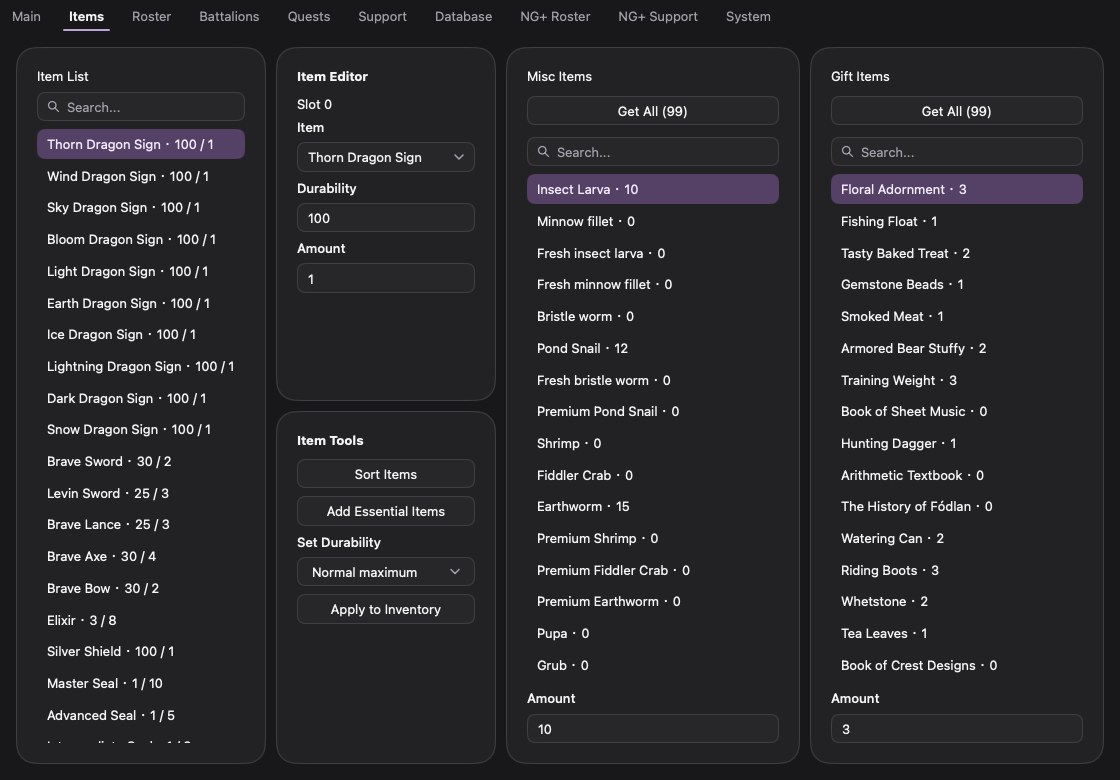
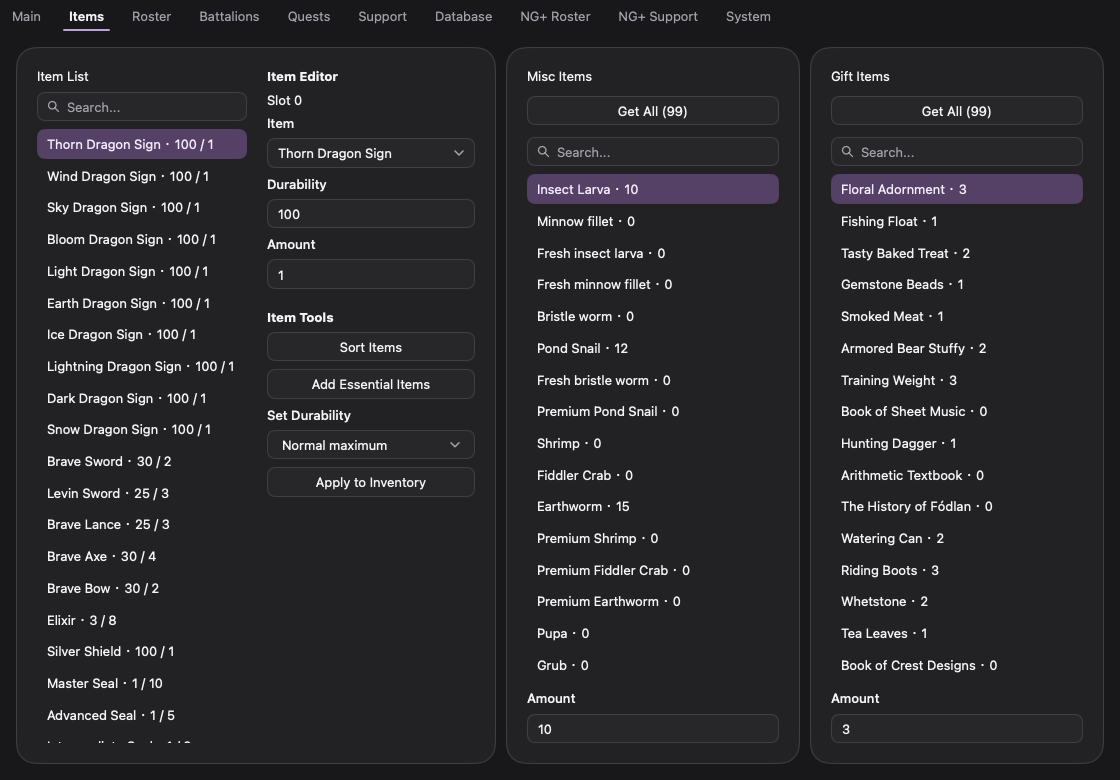
fix(gui): group inventory selection and editing in one card

Changed region(s): [[0.2188, 0.4308, 0.4062, 0.8], [0.2188, 0.0923, 0.375, 0.3385], [0.2188, 0.4, 0.3125, 0.4308]]

diff --git a/internal/app/inventory.go b/internal/app/inventory.go
@@ -21,47 +21,22 @@ func (a *App) itemsPage(c *ui.Context) {
 			p := fmt.Sprintf("Items[%d].", i)
 			rows[i] = row{i, a.DB.Name("items", int(a.number(p+"Id"))), fmt.Sprintf("%d / %d", a.number(p+"Durability"), a.number(p+"Amount"))}
 		}
-		selected := -1
-		a.card(c, a.T("Item List")).Width(listWidth).MinHeight(0).Children(func() { selected = a.selection(c, "items-items", "Item List", rows, nil) })
-		ui.Column(c).Width(editorWidth).MinHeight(0).Children(func() {
-			panel := ui.Column(c.Key(selected)).Fill().Gap(10)
-			if a.Save == nil {
-				selected = 0
-			}
-			if selected < 0 {
-				return
-			}
-			p := fmt.Sprintf("Items[%d].", selected)
-			panel.Children(func() {
-				a.scrollingSection(c, "Item Editor", func() {
-					if a.Save != nil {
-						ui.Textf(c, "%s %d", a.T("Slot"), selected)
-					} else {
-						ui.Text(c, a.T("Slot"))
-					}
-					a.choice(c, "Item", a.DB.Catalog["items"], int(a.number(p+"Id")), func(id int) {
-						ops := []save.Operation{{"op": "set", "path": p + "Id", "value": id}}
-						if id == -1 {
-							ops = append(ops, save.Operation{"op": "set", "path": p + "Durability", "value": 0}, save.Operation{"op": "set", "path": p + "Amount", "value": 0})
-						}
-						a.applyBatch(ops...)
-					})
-					a.input(c, "Durability", p+"Durability", 0, 4294967295)
-					a.input(c, "Amount", p+"Amount", 0, 4294967295)
+		a.card(c, a.T("Item List")).Width(listWidth + editorWidth + 10).MinHeight(0).Children(func() {
+			ui.Row(c).Fill().Gap(editorAppearance.CardPadding).AlignItems(ui.Stretch).Children(func() {
+				selected := -1
+				ui.Column(c).Width(listWidth - 2*editorAppearance.CardPadding).MinHeight(0).Children(func() {
+					selected = a.selection(c, "items-items", "Item List", rows, nil)
 				})
-				a.scrollingSection(c, "Item Tools", func() {
-					if ui.Button(c, a.T("Sort Items")).Clicked() {
-						a.flushInput()
-						a.apply(save.Operation{"op": "sortItems"})
-						a.table("items-items").Selected = 0
-					}
-					a.action(c, "Add Essential Items", save.Operation{"op": "addEssentialItems"})
-					mode := a.tab("durability-mode")
-					a.selectIndex(c, "Set Durability", *mode, []string{"Normal maximum", "100 (infinite)", "Weapons 100, other maximum"}, func(i int) { *mode = i })
-					if ui.Button(c, a.T("Apply to Inventory")).Clicked() {
-						a.flushInput()
-						a.apply(save.Operation{"op": "inventoryDurability", "mode": []string{"normal", "unlimited", "weapons-unlimited"}[*mode]})
-					}
+				ui.Scroll(c).Grow(1).Basis(0).MinWidth(0).MinHeight(0).Children(func() {
+					ui.Column(c).Gap(editorAppearance.CardPadding).Children(func() {
+						if a.Save == nil {
+							selected = 0
+						}
+						if selected >= 0 {
+							a.itemEditor(c, selected)
+						}
+						a.itemTools(c)
+					})
 				})
 			})
 		})
@@ -71,6 +46,45 @@ func (a *App) itemsPage(c *ui.Context) {
 				title = "Gift Items"
 			}
 			a.card(c.Key(kind), a.T(title)).Grow(1).MinHeight(0).Children(func() { a.smallInventory(c, kind) })
+		}
+	})
+}
+
+func (a *App) itemEditor(c *ui.Context, selected int) {
+	p := fmt.Sprintf("Items[%d].", selected)
+	ui.Column(c.Key(selected)).Gap(editorAppearance.ControlGap).Role(ui.RoleGroup).Label(a.T("Item Editor")).Children(func() {
+		ui.Text(c, a.T("Item Editor")).Bold()
+		if a.Save != nil {
+			ui.Textf(c, "%s %d", a.T("Slot"), selected)
+		} else {
+			ui.Text(c, a.T("Slot"))
+		}
+		a.choice(c, "Item", a.DB.Catalog["items"], int(a.number(p+"Id")), func(id int) {
+			ops := []save.Operation{{"op": "set", "path": p + "Id", "value": id}}
+			if id == -1 {
+				ops = append(ops, save.Operation{"op": "set", "path": p + "Durability", "value": 0}, save.Operation{"op": "set", "path": p + "Amount", "value": 0})
+			}
+			a.applyBatch(ops...)
+		})
+		a.input(c, "Durability", p+"Durability", 0, 4294967295)
+		a.input(c, "Amount", p+"Amount", 0, 4294967295)
+	})
+}
+
+func (a *App) itemTools(c *ui.Context) {
+	ui.Column(c).Gap(editorAppearance.ControlGap).Role(ui.RoleGroup).Label(a.T("Item Tools")).Children(func() {
+		ui.Text(c, a.T("Item Tools")).Bold()
+		if ui.Button(c, a.T("Sort Items")).Clicked() {
+			a.flushInput()
+			a.apply(save.Operation{"op": "sortItems"})
+			a.table("items-items").Selected = 0
+		}
+		a.action(c, "Add Essential Items", save.Operation{"op": "addEssentialItems"})
+		mode := a.tab("durability-mode")
+		a.selectIndex(c, "Set Durability", *mode, []string{"Normal maximum", "100 (infinite)", "Weapons 100, other maximum"}, func(i int) { *mode = i })
+		if ui.Button(c, a.T("Apply to Inventory")).Clicked() {
+			a.flushInput()
+			a.apply(save.Operation{"op": "inventoryDurability", "mode": []string{"normal", "unlimited", "weapons-unlimited"}[*mode]})
 		}
 	})
 }

diff --git a/internal/app/startup_test.go b/internal/app/startup_test.go
@@ -67,8 +67,8 @@ func TestUnloadedPageGeometry(t *testing.T) {
 								}
 								editor, _ := tt.AccessByRole(ui.RoleGroup, a.T("Item Editor"))
 								tools, _ := tt.AccessByRole(ui.RoleGroup, a.T("Item Tools"))
-								if editor.Bounds.Y != list.Bounds.Y || tools.Bounds.Y+tools.Bounds.H != list.Bounds.Y+list.Bounds.H || math.Abs(float64(editor.Bounds.H-tools.Bounds.H)) > 0.5 {
-									t.Error("unloaded inventory editor column does not fill the page equally")
+								if !containsRect(list.Bounds, editor.Bounds) || !containsRect(list.Bounds, tools.Bounds) {
+									t.Error("unloaded item editor and tools must share the inventory card")
 								}
 							}
 							for _, area := range tt.AccessAll() {

diff --git a/internal/app/layout_test.go b/internal/app/layout_test.go
@@ -304,8 +304,11 @@ func TestInventoryCardsAndListEdges(t *testing.T) {
 			}
 		}
 		editor, tools := cards["Item Editor"].Bounds, cards["Item Tools"].Bounds
-		if math.Abs(float64(editor.Y-left.Y)) > 0.5 || math.Abs(float64(tools.Y+tools.H-left.Y-left.H)) > 0.5 || math.Abs(float64(editor.H-tools.H)) > 0.5 {
-			t.Error("the stacked editor cards do not fill the inventory column equally")
+		if !containsRect(left, editor) || !containsRect(left, tools) {
+			t.Error("item editor and tools must share the inventory card")
+		}
+		if math.Abs(float64(editor.X-tools.X)) > 0.5 {
+			t.Error("item editor and tools do not align")
 		}
 		lists := 0
 		for _, list := range tt.AccessAll() {
